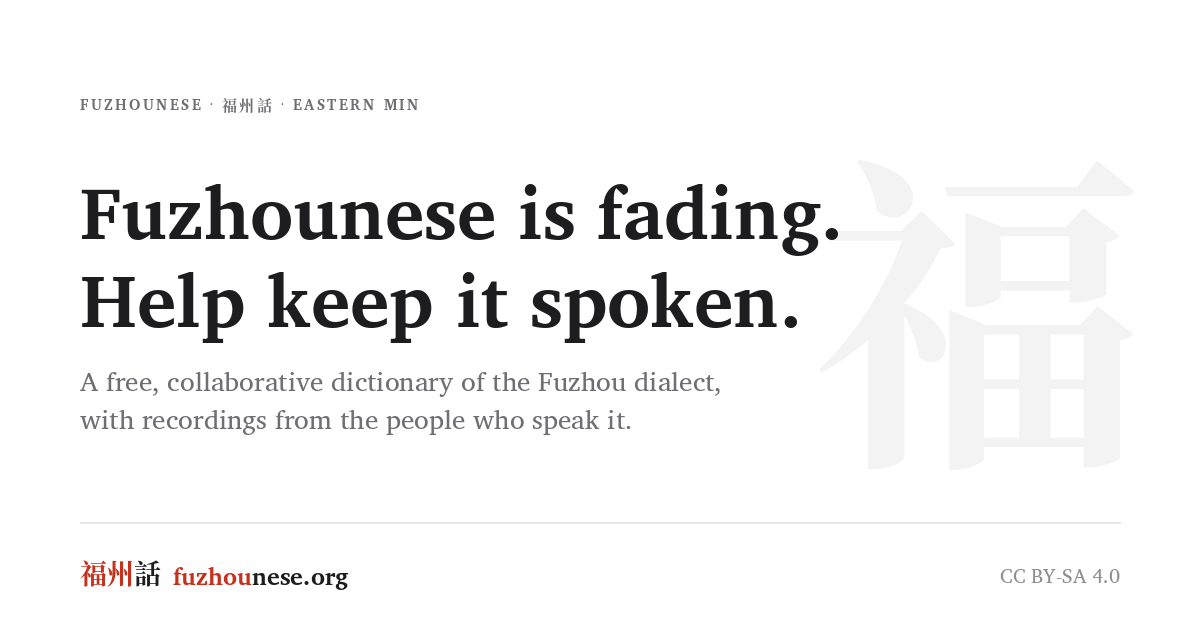
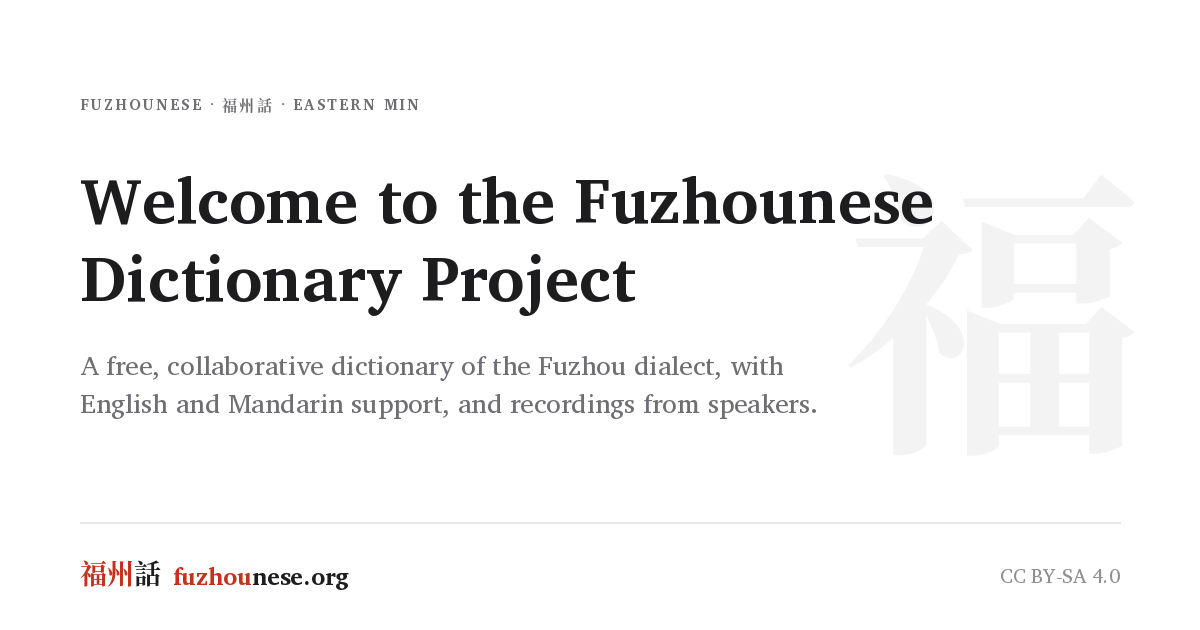
word for one and small changes

diff --git a/src/app/learn/starter.ts b/src/app/learn/starter.ts
@@ -11,12 +11,17 @@ import type { Key } from "@/lib/i18n";
    every character below had an approved entry then.
 
    Where the same characters head two entries (八 is both "eight" and "to
-   know"), `pos` says which one is meant. */
+   know"), `pos` says which one is meant; where both entries are the same part
+   of speech, `rom` does. 一 is the case that needs it: it is ék when you count
+   and siŏh before a measure word, both of them numerals, and a list of numbers
+   wants the one that belongs beside 二 nê and 三 săng. */
 
 interface Pick {
   hanzi: string;
   /** Part of speech of the first sense, when the characters are ambiguous. */
   pos?: string;
+  /** Romanization, when the characters and the part of speech both are. */
+  rom?: string;
 }
 
 export interface StarterGroup {
@@ -45,7 +50,7 @@ export const STARTER: StarterGroup[] = [
     key: "counting",
     label: "learn.g.counting",
     words: [
-      { hanzi: "一" }, { hanzi: "二" }, { hanzi: "三" }, { hanzi: "四" }, { hanzi: "五" },
+      { hanzi: "一", rom: "ék" }, { hanzi: "二" }, { hanzi: "三" }, { hanzi: "四" }, { hanzi: "五" },
       { hanzi: "六" }, { hanzi: "七" }, { hanzi: "八", pos: "numeral" }, { hanzi: "九" }, { hanzi: "十" },
     ],
   },
@@ -144,7 +149,12 @@ export const starterWords = unstable_cache(
       for (const pick of group.words) {
         const list = (byHanzi.get(pick.hanzi) ?? []).sort((a, b) => a.created_at.localeCompare(b.created_at));
         if (!list.length) continue;
-        const entry = pick.pos ? list.find((e) => firstSense(e)?.part_of_speech === pick.pos) ?? list[0] : list[0];
+        // Each selector narrows the list; falling back to the oldest entry
+        // means a word whose second reading has not been added yet still
+        // shows, with the reading it does have.
+        let entry = list[0];
+        if (pick.pos) entry = list.find((e) => firstSense(e)?.part_of_speech === pick.pos) ?? entry;
+        if (pick.rom) entry = list.find((e) => e.romanization === pick.rom) ?? entry;
         chosen.push({ group, entry });
       }
     }

diff --git a/src/app/layout.tsx b/src/app/layout.tsx
@@ -92,13 +92,13 @@ export const metadata: Metadata = {
     description: SITE_DESCRIPTION,
     url: SITE_URL,
     locale: "en_US",
-    images: [{ url: "/og.png?v=5", width: 1200, height: 630, alt: SITE_NAME }],
+    images: [{ url: "/og.png?v=6", width: 1200, height: 630, alt: SITE_NAME }],
   },
   twitter: {
     card: "summary_large_image",
     title: SITE_NAME,
     description: SITE_DESCRIPTION,
-    images: ["/og.png?v=5"],
+    images: ["/og.png?v=6"],
   },
   robots: { index: true, follow: true },
   /* Icons declared here rather than by the app/ file convention, so the tags

diff --git a/src/lib/site.ts b/src/lib/site.ts
@@ -21,4 +21,4 @@ export const SITE_NAME = "Fuzhounese-English Dictionary";
    Noah's wording, kept to about 155 characters so Google shows all of it,
    and saying "recordings" rather than "audio", as the site does. */
 export const SITE_DESCRIPTION =
-  "A free, collaborative Fuzhounese-English dictionary. Search words, characters and romanization, hear recordings from speakers, and add your own.";
+  "A free, collaborative dictionary of the Fuzhou dialect, with English and Mandarin support. Search words and characters, and hear recordings from speakers.";

diff --git a/scripts/make-brand-images.py b/scripts/make-brand-images.py
@@ -93,7 +93,7 @@ def og():
     # home page, and the icon's character, in the space the text leaves.
     mark = Image.new("RGB", (W, H), PAPER)
     md = ImageDraw.Draw(mark)
-    mf = han(330)
+    mf = han(300)
     l, t, r, b = md.textbbox((0, 0), "福", font=mf)
     md.text((W - 56 - (r - l) - l, (H - (b - t)) / 2 - t), "福", font=mf, fill=INK)
     im = Image.blend(im, mark, 0.05)
@@ -109,14 +109,17 @@ def og():
         2.4,
     )
 
-    y = 150
-    d.text((x, y), "Fuzhounese is fading.", font=inter(700, 74), fill=INK)
-    d.text((x, y + 88), "Help keep it spoken.", font=inter(700, 74), fill=INK)
+    # The home page's headline, broken where the page itself breaks it. It is
+    # set smaller than the two-line headline it replaced because it is half as
+    # long again; at 64 the second line still clears the wordmark below.
+    y = 146
+    d.text((x, y), "Welcome to the Fuzhounese", font=inter(700, 64), fill=INK)
+    d.text((x, y + 78), "Dictionary Project", font=inter(700, 64), fill=INK)
 
-    lede = "A free, collaborative dictionary of the Fuzhou dialect,"
-    lede2 = "with recordings from the people who speak it."
-    d.text((x, y + 208), lede, font=inter(400, 27), fill=INK_SOFT)
-    d.text((x, y + 246), lede2, font=inter(400, 27), fill=INK_SOFT)
+    lede = "A free, collaborative dictionary of the Fuzhou dialect, with"
+    lede2 = "English and Mandarin support, and recordings from speakers."
+    d.text((x, y + 196), lede, font=inter(400, 27), fill=INK_SOFT)
+    d.text((x, y + 234), lede2, font=inter(400, 27), fill=INK_SOFT)
 
     # The wordmark, two-tone as in the header: the place in lacquer, the rest
     # in ink.
